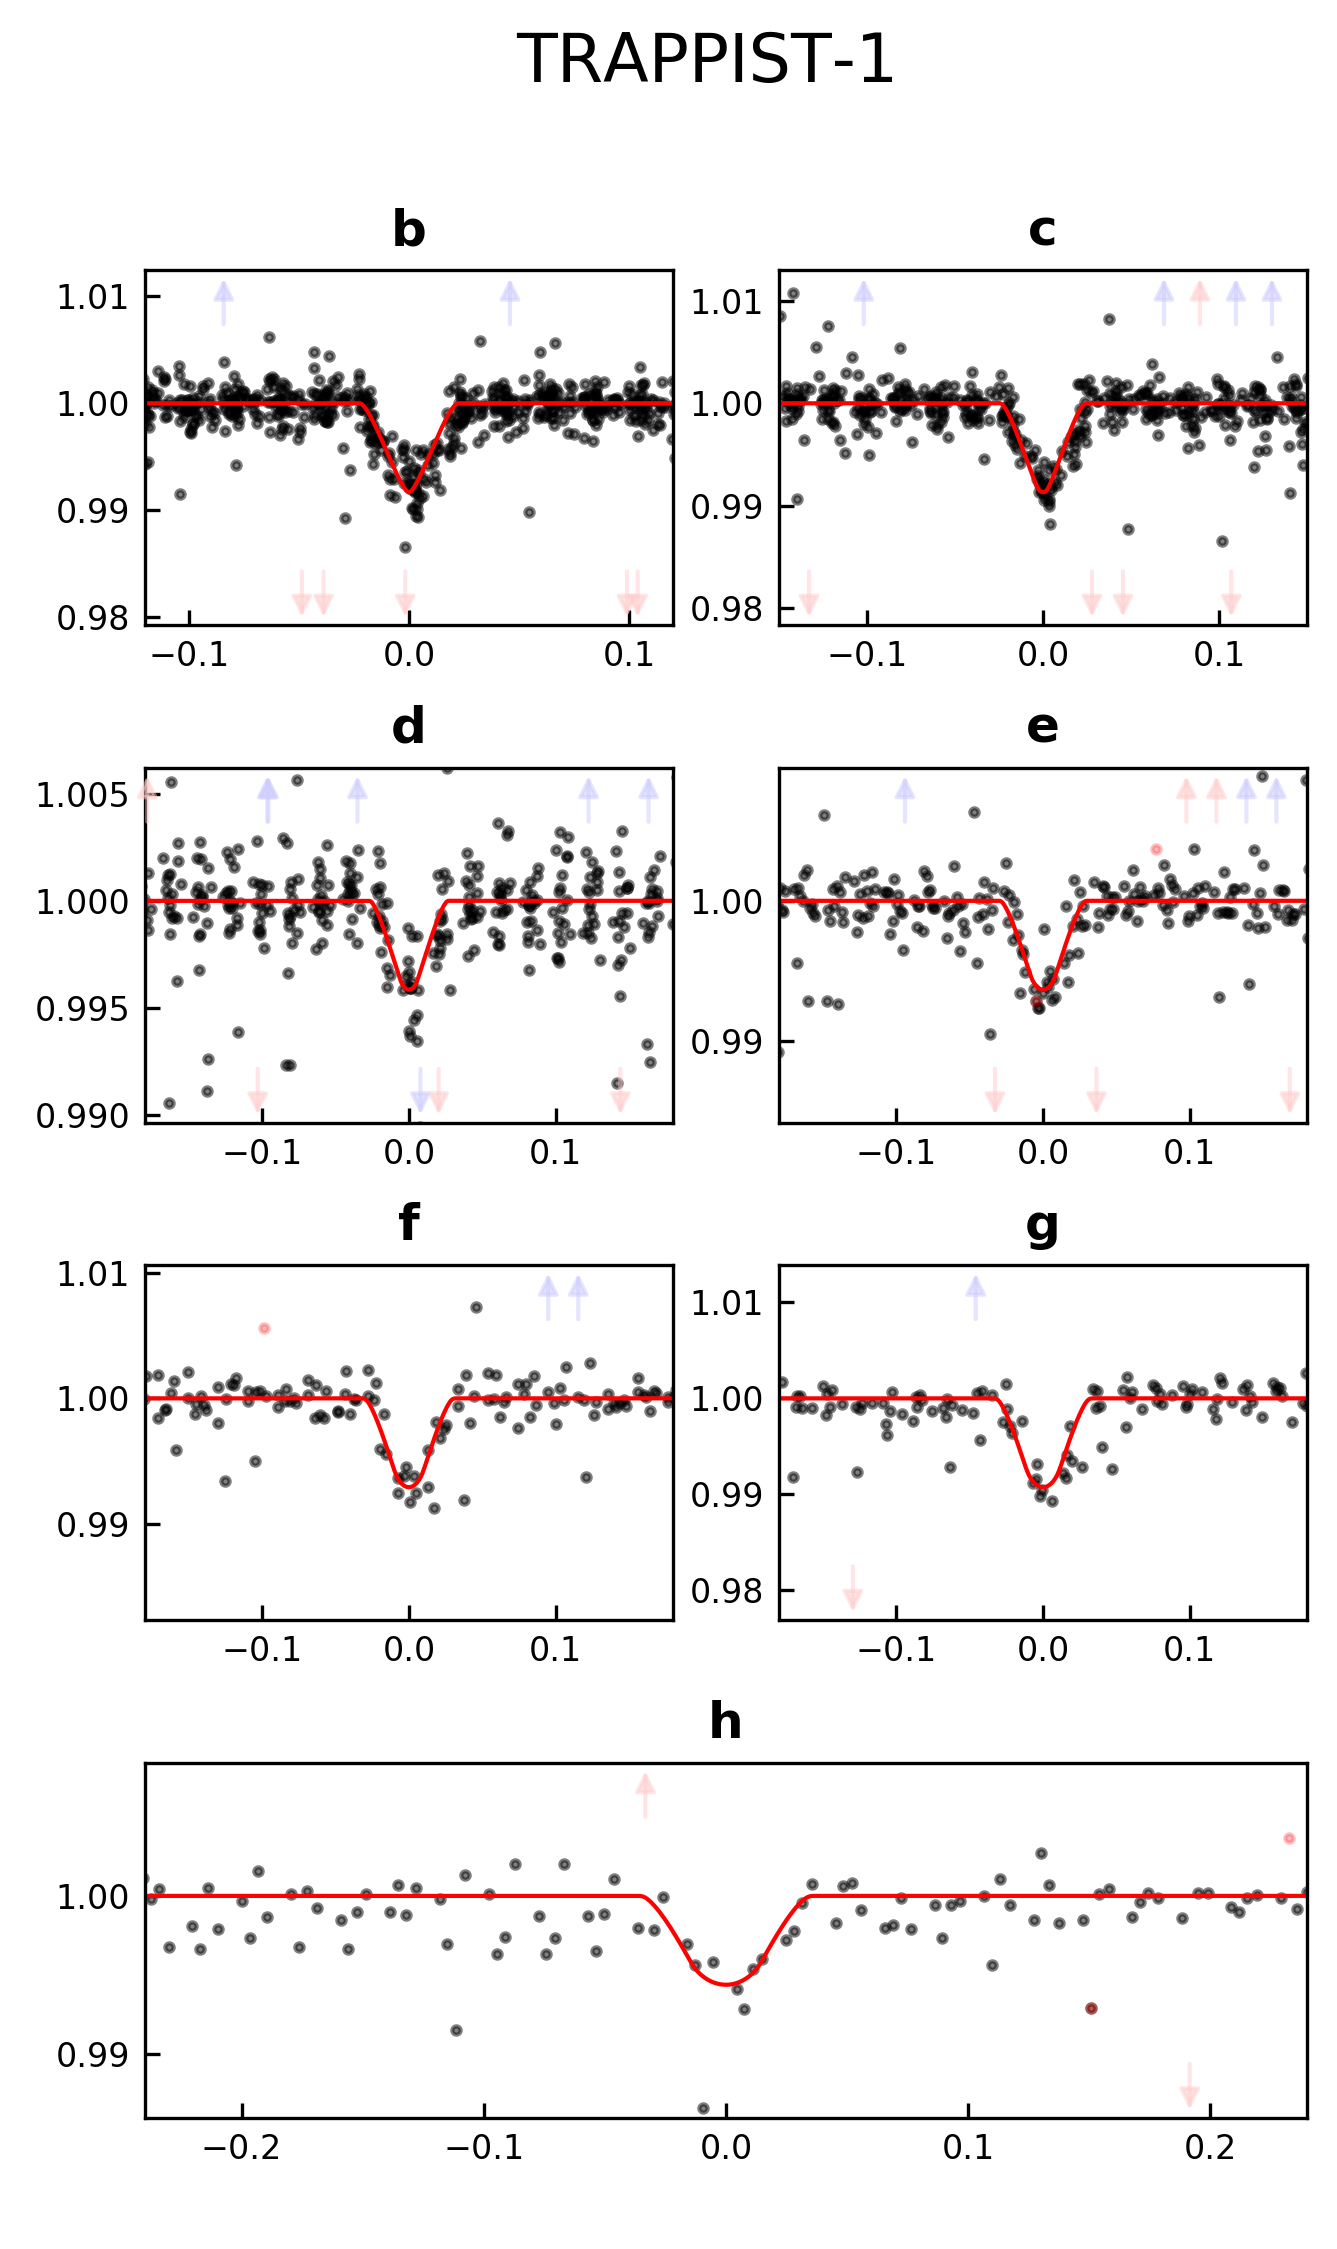
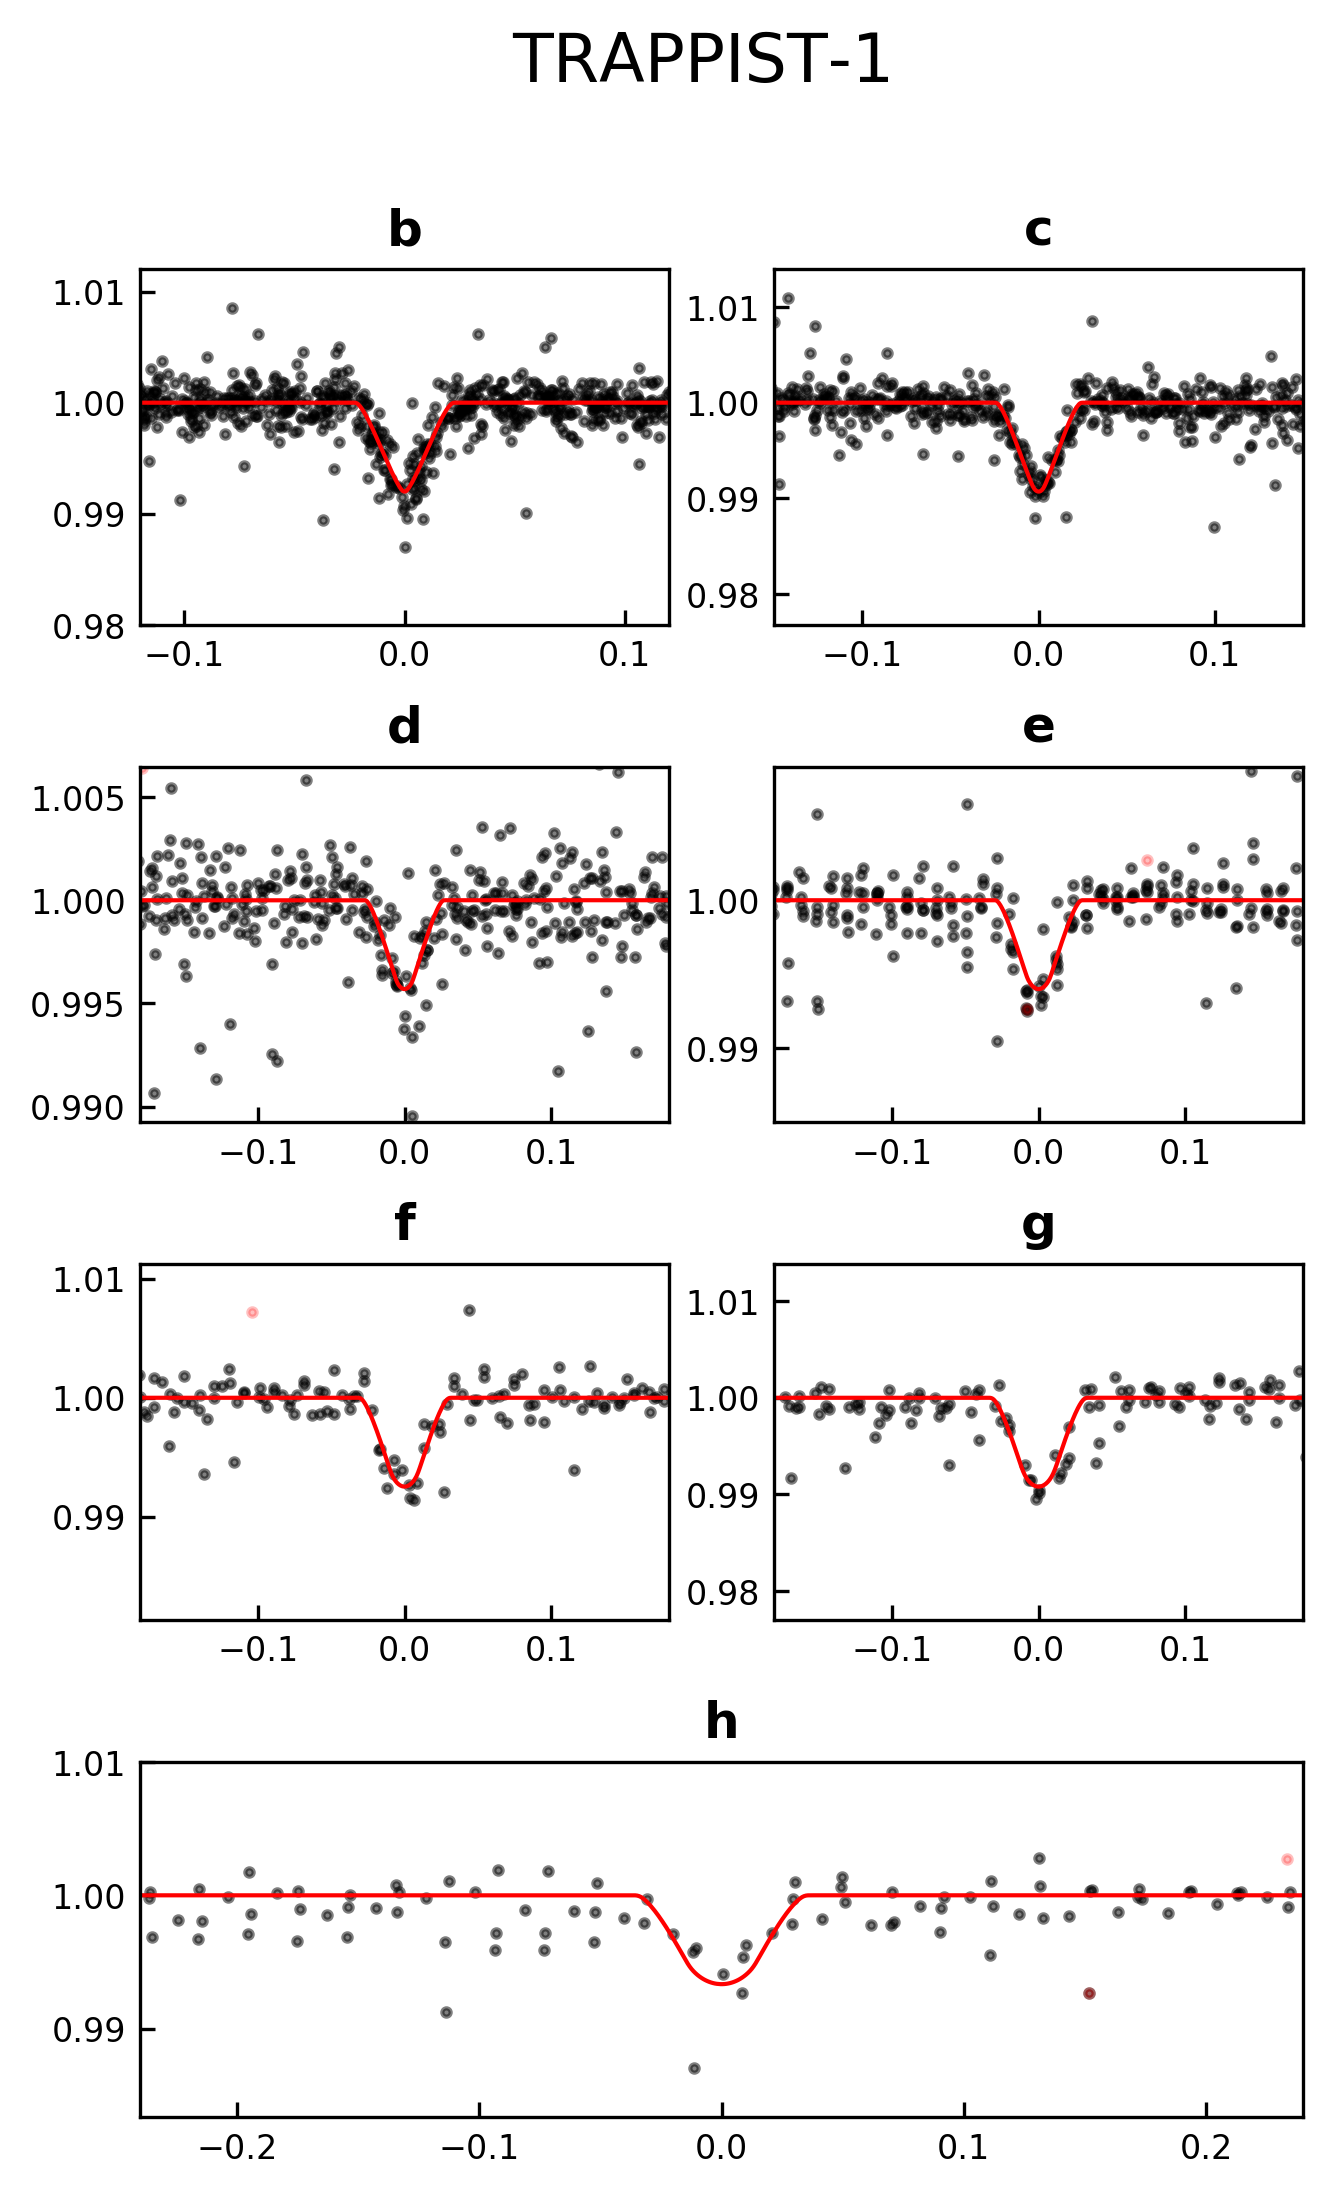
updated transit times

diff --git a/trappist1.py b/trappist1.py
@@ -61,22 +61,16 @@ def PlotFolded(save = False):
   
   # Plot each planet
   planets = ['b', 'c', 'd', 'e', 'f', 'g', 'h']
+  star.compute_joint()
+  
+  # HACK: For some reason, the EVEREST regression fails for planet `b`, yielding
+  # a depth that's two orders of magnitude too small. I suspect an outlier, but
+  # I couldn't find it. Since this doesn't affect the analysis **at all**, let's
+  # just fudge it for the plotting to work.
+  star.transit_depth[0] = 0.008
+  
   for planet, ax in zip(planets, axes):
-    
-    # HACK: There's an outlier SOMEWHERE that's messing up the transit fit for `b`...
-    if planet == 'b':
-      inds = []
-      for t in T1.times['b']:
-        inds += list(np.where(((star.time - t) > 0.05) & ((star.time - t) < 0.06))[0])
-      tmp = np.array(star.badmask)
-      star.badmask = np.append(star.badmask, inds)
-      star.compute_joint()
-      star.plot_transit_model(fold = planet, ax = ax, show = False) 
-      star.badmask = tmp
-      star.compute_joint()
-    else:
-      star.plot_transit_model(fold = planet, ax = ax, show = False)
-
+    star.plot_transit_model(fold = planet, ax = ax, show = False)
     ax.set_ylabel("")
     ax.set_xlabel("") 
     ax.set_title(planet, fontweight = 'bold')
